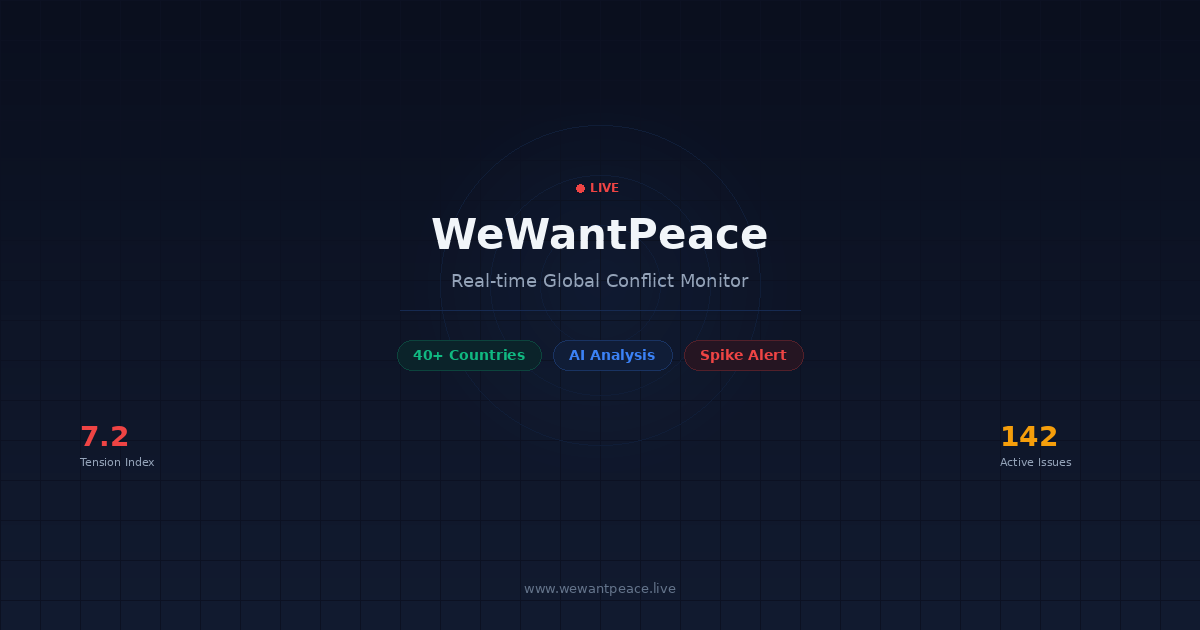
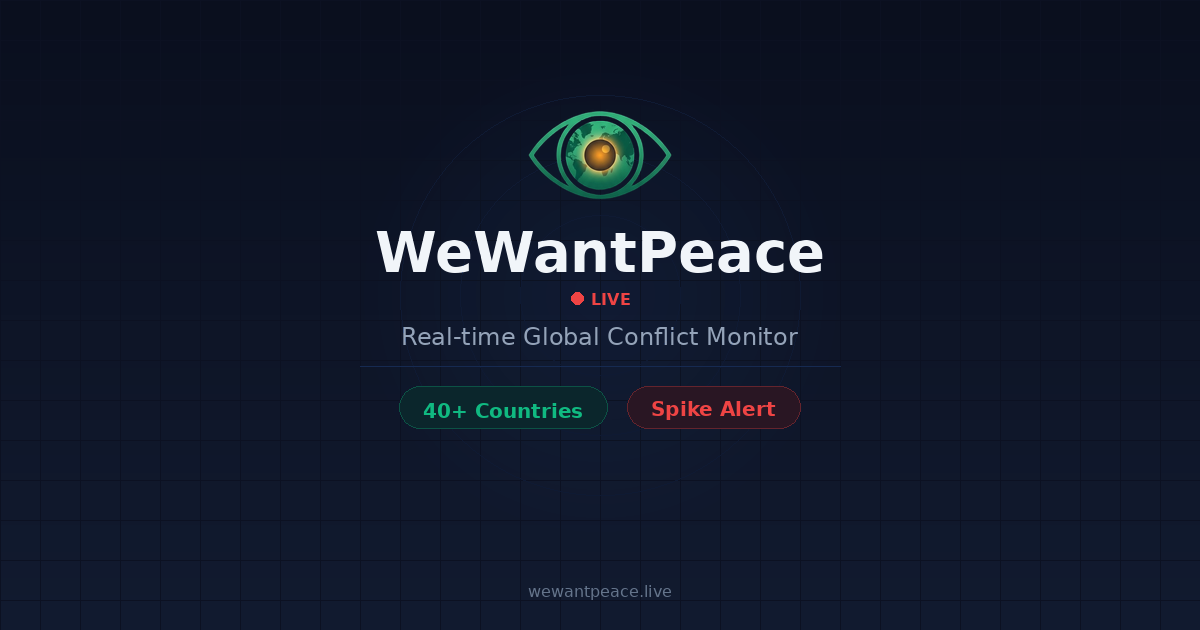
OG 메타 개선 + 이미지 리디자인 + 추모/기념 severity 하향
- OG 타이틀 구분자 — → | 변경
- description 길이 단축 (잘림 방지)
- AI 언급 모두 제거
- OG 이미지 URL에 ?v=2 추가 (카톡 캐시 무효화)
- OG 이미지: 로고 중앙, 글자 크게, 숫자 제거, 태그 크게
- normalizer: 추모/기념/박물관 키워드 severity 대폭 하향

diff --git a/frontend/app/layout.tsx b/frontend/app/layout.tsx
@@ -10,7 +10,7 @@ export const metadata: Metadata = {
     default: "WeWantPeace",
     template: "%s | WeWantPeace",
   },
-  description: "실시간 글로벌 분쟁 모니터링 · 40개국 긴장도 지수 · AI 이슈 분석 · 스파이크 알림 — WeWantPeace",
+  description: "40개국 긴장도 지수 · 실시간 스파이크 알림 · 글로벌 분쟁 모니터링",
   manifest: "/manifest.json",
   metadataBase: new URL(SITE_URL),
   openGraph: {
@@ -18,15 +18,15 @@ export const metadata: Metadata = {
     locale: "ko_KR",
     url: SITE_URL,
     siteName: "WeWantPeace",
-    title: "WeWantPeace — 실시간 글로벌 분쟁 모니터링",
-    description: "40개국 긴장도 지수 · AI 이슈 분석 · 스파이크 알림 — 전 세계 분쟁 이슈를 실시간으로 추적합니다",
-    images: [{ url: `${SITE_URL}/og-image.png`, width: 1200, height: 630 }],
+    title: "WeWantPeace | 실시간 글로벌 분쟁 모니터링",
+    description: "40개국 긴장도 지수 · 실시간 스파이크 알림 · 글로벌 분쟁 모니터링",
+    images: [{ url: `${SITE_URL}/og-image.png?v=2`, width: 1200, height: 630 }],
   },
   twitter: {
     card: "summary_large_image",
-    title: "WeWantPeace — 실시간 글로벌 분쟁 모니터링",
-    description: "40개국 긴장도 지수 · AI 이슈 분석 · 실시간 스파이크 알림",
-    images: [{ url: `${SITE_URL}/og-image-twitter.png` }],
+    title: "WeWantPeace | 실시간 글로벌 분쟁 모니터링",
+    description: "40개국 긴장도 지수 · 실시간 스파이크 알림 · 글로벌 분쟁 모니터링",
+    images: [{ url: `${SITE_URL}/og-image-twitter.png?v=2` }],
   },
   appleWebApp: {
     capable: true,

diff --git a/frontend/app/(main)/issues/[id]/page.tsx b/frontend/app/(main)/issues/[id]/page.tsx
@@ -17,7 +17,7 @@ export async function generateMetadata({ params }: Props): Promise<Metadata> {
   }
 
   const title = issue.title_ko || issue.title;
-  const siteDesc = "WeWantPeace | 실시간 글로벌 분쟁 모니터링";
+  const siteDesc = "40개국 긴장도 지수 · 실시간 스파이크 알림 · 글로벌 분쟁 모니터링";
   // 카카오톡: og:title이 길면 description 영역을 밀어내서 숨김
   // 띄어쓰기 기준으로 자연스럽게 자름
   let ogTitle = title;

diff --git a/frontend/app/(main)/issues/country/[code]/page.tsx b/frontend/app/(main)/issues/country/[code]/page.tsx
@@ -39,7 +39,7 @@ export async function generateMetadata({ params }: Props): Promise<Metadata> {
   const nameEn = country?.en || code;
 
   const title = `${nameKo} 긴장도`;
-  const siteDesc = "WeWantPeace | 실시간 글로벌 분쟁 모니터링";
+  const siteDesc = "40개국 긴장도 지수 · 실시간 스파이크 알림 · 글로벌 분쟁 모니터링";
 
   const ogImage = `https://www.wewantpeace.live/issues/country/${code.toLowerCase()}/og`;
 

diff --git a/scripts/generate_og_image.py b/scripts/generate_og_image.py
@@ -4,24 +4,22 @@ OG 이미지 생성 스크립트.
       frontend/public/og-image-twitter.png (1200x630)
 """
 from PIL import Image, ImageDraw, ImageFont
-import math
 import os
 
 W, H = 1200, 630
 OUT_DIR = os.path.join(os.path.dirname(__file__), "..", "frontend", "public")
+LOGO_PATH = os.path.join(os.path.dirname(__file__), "..", "frontend", "public", "logo-eye.png")
 
 # 색상
 BG_DARK = (10, 15, 30)
-GRID_COLOR = (59, 130, 246, 12)  # 파란 그리드
 GLOW_CENTER = (59, 130, 246)
 WHITE = (241, 245, 249)
 MUTED = (148, 163, 184)
-RED = (239, 68, 68)
 GREEN = (16, 185, 129)
-AMBER = (245, 158, 11)
+RED = (239, 68, 68)
 
 
-def draw_gradient_bg(draw: ImageDraw.ImageDraw, img: Image.Image):
+def draw_gradient_bg(draw: ImageDraw.ImageDraw):
     """다크 그라데이션 배경"""
     for y in range(H):
         r = int(10 + (y / H) * 8)
@@ -42,9 +40,9 @@ def draw_radar_glow(img: Image.Image):
     """중앙 레이더 글로우"""
     overlay = Image.new("RGBA", (W, H), (0, 0, 0, 0))
     d = ImageDraw.Draw(overlay)
-    cx, cy = W // 2, H // 2 - 30
-    for r in range(200, 0, -2):
-        alpha = int(15 * (1 - r / 200))
+    cx, cy = W // 2, H // 2 - 20
+    for r in range(250, 0, -2):
+        alpha = int(18 * (1 - r / 250))
         d.ellipse(
             [cx - r, cy - r, cx + r, cy + r],
             fill=(GLOW_CENTER[0], GLOW_CENTER[1], GLOW_CENTER[2], alpha),
@@ -54,11 +52,11 @@ def draw_radar_glow(img: Image.Image):
 
 def draw_radar_rings(draw: ImageDraw.ImageDraw):
     """레이더 동심원"""
-    cx, cy = W // 2, H // 2 - 30
-    for r in [60, 110, 160]:
+    cx, cy = W // 2, H // 2 - 20
+    for r in [80, 140, 200]:
         draw.ellipse(
             [cx - r, cy - r, cx + r, cy + r],
-            outline=(59, 130, 246, 30),
+            outline=(59, 130, 246, 25),
             width=1,
         )
 
@@ -82,17 +80,16 @@ def draw_text_center(draw: ImageDraw.ImageDraw, y: int, text: str, font, fill):
 
 
 def draw_feature_tags(draw: ImageDraw.ImageDraw, y: int):
-    """피처 태그: 3개 원형 배지"""
+    """피처 태그: 2개 배지 (AI 제거)"""
     tags = [
         ("40+ Countries", GREEN),
-        ("AI Analysis", (59, 130, 246)),
         ("Spike Alert", RED),
     ]
-    font = get_font(14, bold=True)
+    font = get_font(20, bold=True)
     total_w = 0
     tag_sizes = []
-    pad_x, pad_y = 16, 8
-    gap = 12
+    pad_x, pad_y = 24, 12
+    gap = 20
     for label, _ in tags:
         bbox = draw.textbbox((0, 0), label, font=font)
         tw = bbox[2] - bbox[0]
@@ -103,49 +100,79 @@ def draw_feature_tags(draw: ImageDraw.ImageDraw, y: int):
     for i, (label, color) in enumerate(tags):
         tw = tag_sizes[i]
         bw = tw + pad_x * 2
-        bh = 30
+        bh = 42
         r = bh // 2
         draw.rounded_rectangle(
             [sx, y, sx + bw, y + bh],
             radius=r,
-            fill=(color[0], color[1], color[2], 30),
-            outline=(color[0], color[1], color[2], 80),
+            fill=(color[0], color[1], color[2], 35),
+            outline=(color[0], color[1], color[2], 100),
         )
-        draw.text((sx + pad_x, y + (bh - 16) // 2), label, font=font, fill=color)
+        bbox = draw.textbbox((0, 0), label, font=font)
+        th = bbox[3] - bbox[1]
+        draw.text((sx + pad_x, y + (bh - th) // 2), label, font=font, fill=color)
         sx += bw + gap
 
 
-def draw_live_indicator(draw: ImageDraw.ImageDraw, x: int, y: int):
-    """LIVE 인디케이터"""
-    font = get_font(12, bold=True)
-    draw.ellipse([x, y + 4, x + 8, y + 12], fill=RED)
-    draw.text((x + 14, y), "LIVE", font=font, fill=RED)
+def draw_live_indicator(draw: ImageDraw.ImageDraw, cx: int, y: int):
+    """LIVE 인디케이터 (중앙 정렬)"""
+    font = get_font(16, bold=True)
+    label = "LIVE"
+    dot_r = 6
+    gap = 8
+    bbox = draw.textbbox((0, 0), label, font=font)
+    tw = bbox[2] - bbox[0]
+    th = bbox[3] - bbox[1]
+    total_w = dot_r * 2 + gap + tw
+    sx = cx - total_w // 2
+    draw.ellipse([sx, y + (th - dot_r * 2) // 2 + 2, sx + dot_r * 2, y + (th - dot_r * 2) // 2 + 2 + dot_r * 2], fill=RED)
+    draw.text((sx + dot_r * 2 + gap, y), label, font=font, fill=RED)
 
 
 def generate():
     img = Image.new("RGBA", (W, H), BG_DARK + (255,))
     draw = ImageDraw.Draw(img, "RGBA")
 
-    draw_gradient_bg(draw, img)
+    draw_gradient_bg(draw)
     draw_grid(draw)
     draw_radar_glow(img)
     draw = ImageDraw.Draw(img, "RGBA")  # re-get draw after composite
     draw_radar_rings(draw)
 
-    # LIVE 인디케이터
-    draw_live_indicator(draw, W // 2 - 24, 180)
+    # --- 모든 요소 수직 중앙 정렬 ---
+    # 총 높이 계산: 로고(100) + gap(20) + title(56) + gap(10) + LIVE(16) + gap(16) + subtitle(24) + gap(24) + divider(1) + gap(24) + tags(42) + gap(24) + url(16)
+    # ≈ 310px → 시작 Y = (630 - 310) / 2 ≈ 120
+
+    # 로고 이미지
+    logo_y = 105
+    if os.path.exists(LOGO_PATH):
+        logo = Image.open(LOGO_PATH).convert("RGBA")
+        # 로고 크기 조정 (높이 100px 기준)
+        logo_h = 100
+        ratio = logo_h / logo.height
+        logo_w = int(logo.width * ratio)
+        logo = logo.resize((logo_w, logo_h), Image.LANCZOS)
+        logo_x = (W - logo_w) // 2
+        img.paste(logo, (logo_x, logo_y), logo)
+        draw = ImageDraw.Draw(img, "RGBA")  # re-get after paste
 
     # 타이틀
-    title_font = get_font(42, bold=True)
-    draw_text_center(draw, 210, "WeWantPeace", title_font, WHITE)
+    title_y = logo_y + 115
+    title_font = get_font(56, bold=True)
+    draw_text_center(draw, title_y, "WeWantPeace", title_font, WHITE)
+
+    # LIVE 인디케이터
+    live_y = title_y + 70
+    draw_live_indicator(draw, W // 2, live_y)
 
     # 서브타이틀
-    sub_font = get_font(18)
-    draw_text_center(draw, 270, "Real-time Global Conflict Monitor", sub_font, MUTED)
+    sub_y = live_y + 32
+    sub_font = get_font(24)
+    draw_text_center(draw, sub_y, "Real-time Global Conflict Monitor", sub_font, MUTED)
 
     # 구분선
-    line_y = 310
-    line_w = 200
+    line_y = sub_y + 44
+    line_w = 240
     draw.line(
         [(W // 2 - line_w, line_y), (W // 2 + line_w, line_y)],
         fill=(59, 130, 246, 60),
@@ -153,23 +180,12 @@ def generate():
     )
 
     # 피처 태그
-    draw_feature_tags(draw, 340)
+    tag_y = line_y + 20
+    draw_feature_tags(draw, tag_y)
 
     # 하단 URL
-    url_font = get_font(13)
-    draw_text_center(draw, H - 50, "www.wewantpeace.live", url_font, (100, 116, 139))
-
-    # 데이터 요소 — 좌우에 KScore 같은 숫자
-    stat_font = get_font(28, bold=True)
-    stat_label_font = get_font(11)
-
-    # 왼쪽 — Tension Index
-    draw.text((80, 420), "7.2", font=stat_font, fill=RED)
-    draw.text((80, 455), "Tension Index", font=stat_label_font, fill=MUTED)
-
-    # 오른쪽 — Active Issues
-    draw.text((W - 200, 420), "142", font=stat_font, fill=AMBER)
-    draw.text((W - 200, 455), "Active Issues", font=stat_label_font, fill=MUTED)
+    url_font = get_font(16)
+    draw_text_center(draw, H - 48, "wewantpeace.live", url_font, (100, 116, 139))
 
     # 저장
     os.makedirs(OUT_DIR, exist_ok=True)

diff --git a/worker/processor/normalizer.py b/worker/processor/normalizer.py
@@ -435,8 +435,13 @@ SEVERITY_DOWN: list[tuple[str, int]] = [
     ("routine patrol", -8), ("scheduled exercise", -10), ("war games", -8),
     ("training exercise", -10), ("annual exercise", -8),
     # 과거 사건 (현재 위협 아님)
-    ("anniversary", -6), ("memorial", -6), ("years ago", -8),
+    ("anniversary", -8), ("memorial", -10), ("years ago", -10),
     ("looking back", -8), ("retrospective", -8),
+    # 추모/기념 (활성 분쟁 아님)
+    ("commemorate", -10), ("commemorat", -10), ("remembrance", -10),
+    ("tribute", -10), ("in memory of", -12), ("memorialize", -12),
+    ("museum", -10), ("monument", -8), ("memorial service", -15),
+    ("vigil", -8), ("honor the victims", -10), ("pay respects", -8),
 ]
 
 # ── 사상자 수 기반 추가 보정 ────────────────────────────────────────────────
@@ -1481,6 +1486,11 @@ _NON_MILITARY_CONTEXT: list[re.Pattern] = [re.compile(p, re.IGNORECASE) for p in
     r"la tomatina",    # 스페인 토마토 축제
     r"carnival of ",   # 카니발 이벤트
     r"mardi gras",
+    # 추모/기념/박물관 — 활성 분쟁이 아님
+    r"(memorial|memorialize|commemorate|commemorat).{0,80}(museum|service|ceremony|event|day|march|park)",
+    r"(museum|monument|memorial).{0,80}(honor|remember|tribute|victim|survivor)",
+    r"(remembrance|vigil|tribute).{0,80}(held|ceremony|service|gather|candle)",
+    r"(in memory of|pay respects|laying wreaths?|wreath.laying)",
 ]]
 
 
